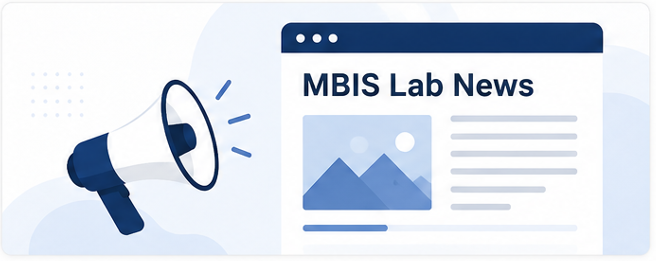
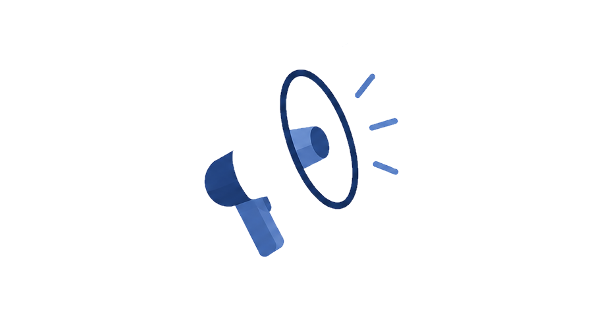
0707_2

diff --git a/blog/index.md b/blog/index.md
@@ -37,11 +37,49 @@ Internal resources including S-sharp reservation and MBIS-Git links.
 
 {% include button.html link="blog/resources" text="Open Resources" icon="fa-solid fa-arrow-right" flip=true style="bare" %}
 {% endcapture %}
-{% include feature.html image="images/blog/s-sharp-reservation.jpg" link="blog/resources" title="Internal Resources" text=text flip=true %}
+{% include feature.html image="images/blog/resource.png" link="blog/resources" title="Internal Resources" text=text flip=true %}
 
 {% capture text %}
 AI seminar schedule and topics from MBIS Lab members.
 
 {% include button.html link="blog/ai-seminar" text="View AI Seminars" icon="fa-solid fa-arrow-right" flip=true style="bare" %}
 {% endcapture %}
-{% include feature.html image="images/blog/ai-seminar/seminar.jpg" link="blog/ai-seminar" title="AI Seminar" text=text %}
+{% include feature.html image="images/blog/ai-seminar/seminar.png" link="blog/ai-seminar" title="AI Seminar" text=text %}
+
+<style>
+/* Center-align all text and buttons in the Activity feature sections */
+.feature {
+  text-align: center;
+}
+
+.feature h1,
+.feature h2,
+.feature h3,
+.feature p,
+.feature div,
+.feature span {
+  text-align: center;
+}
+
+.feature .button-wrapper,
+.feature .button,
+.feature a {
+  justify-content: center;
+  margin-left: auto;
+  margin-right: auto;
+}
+
+/* Keep feature descriptions readable */
+.feature p {
+  max-width: 640px;
+  margin-left: auto;
+  margin-right: auto;
+  line-height: 1.8;
+}
+
+/* Prevent overly wide images from visually spilling out */
+.feature img {
+  max-width: 100%;
+  object-fit: contain;
+}
+</style>

diff --git a/blog/resources/index.md b/blog/resources/index.md
@@ -24,7 +24,7 @@ Internal resources for MBIS Lab members.
       </p>
 
       <a class="resource-button" href="https://moonhwanlee.notion.site/S-sharp-reservation-2d557e39ed9880b8bd6ed8e4cfc4086d" target="_blank" rel="noopener">
-        예약하기
+        Reservation
         <span>↗</span>
       </a>
     </div>